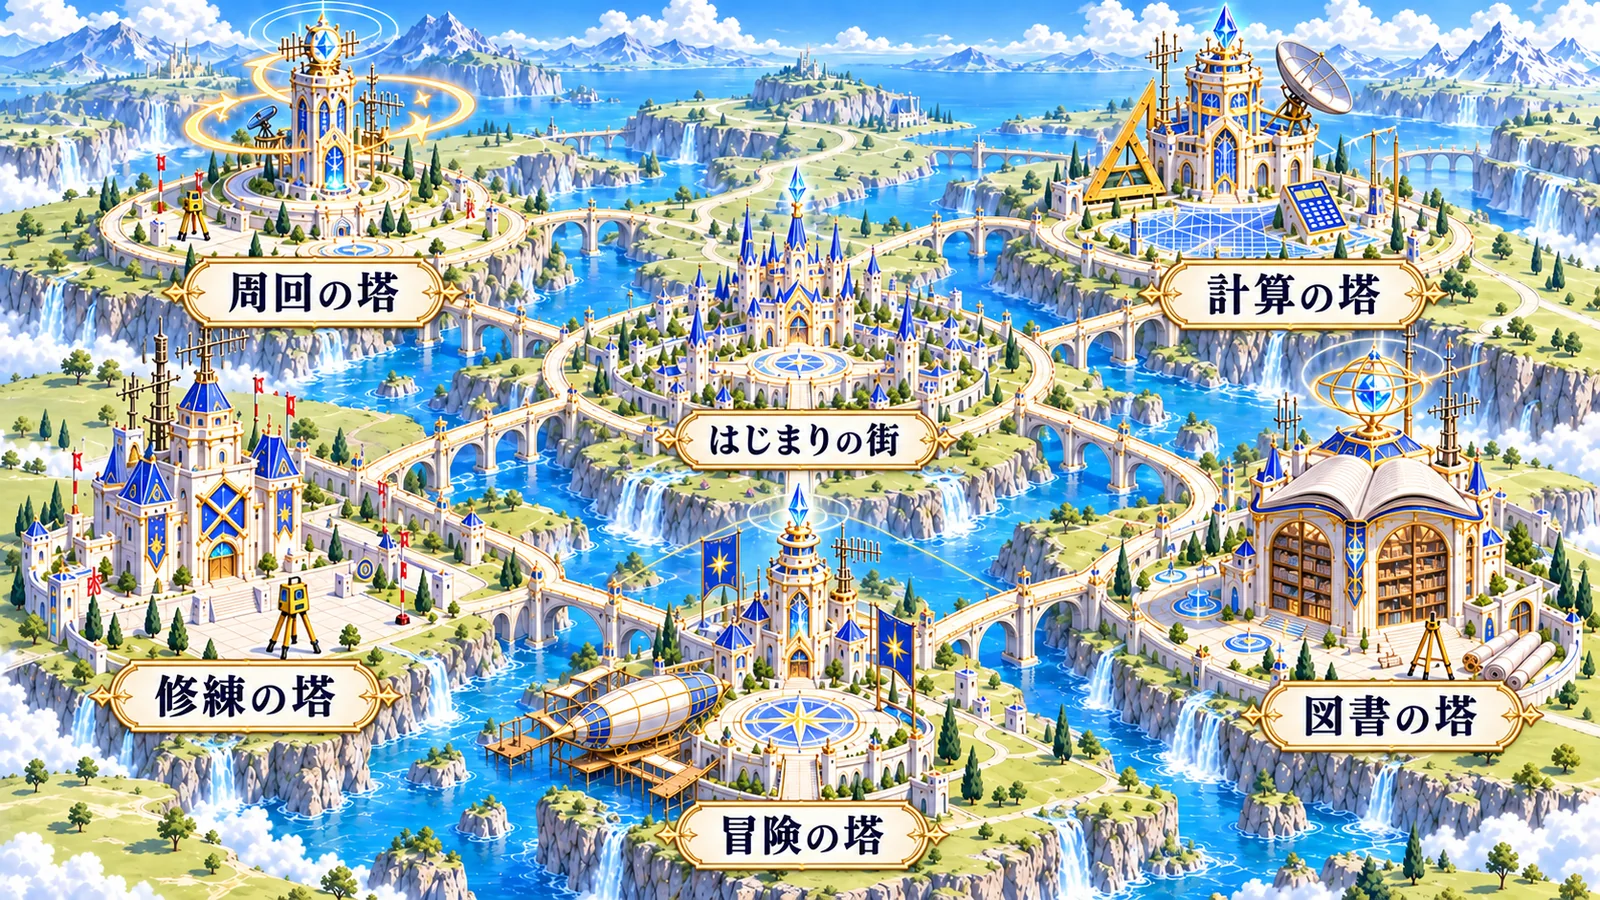
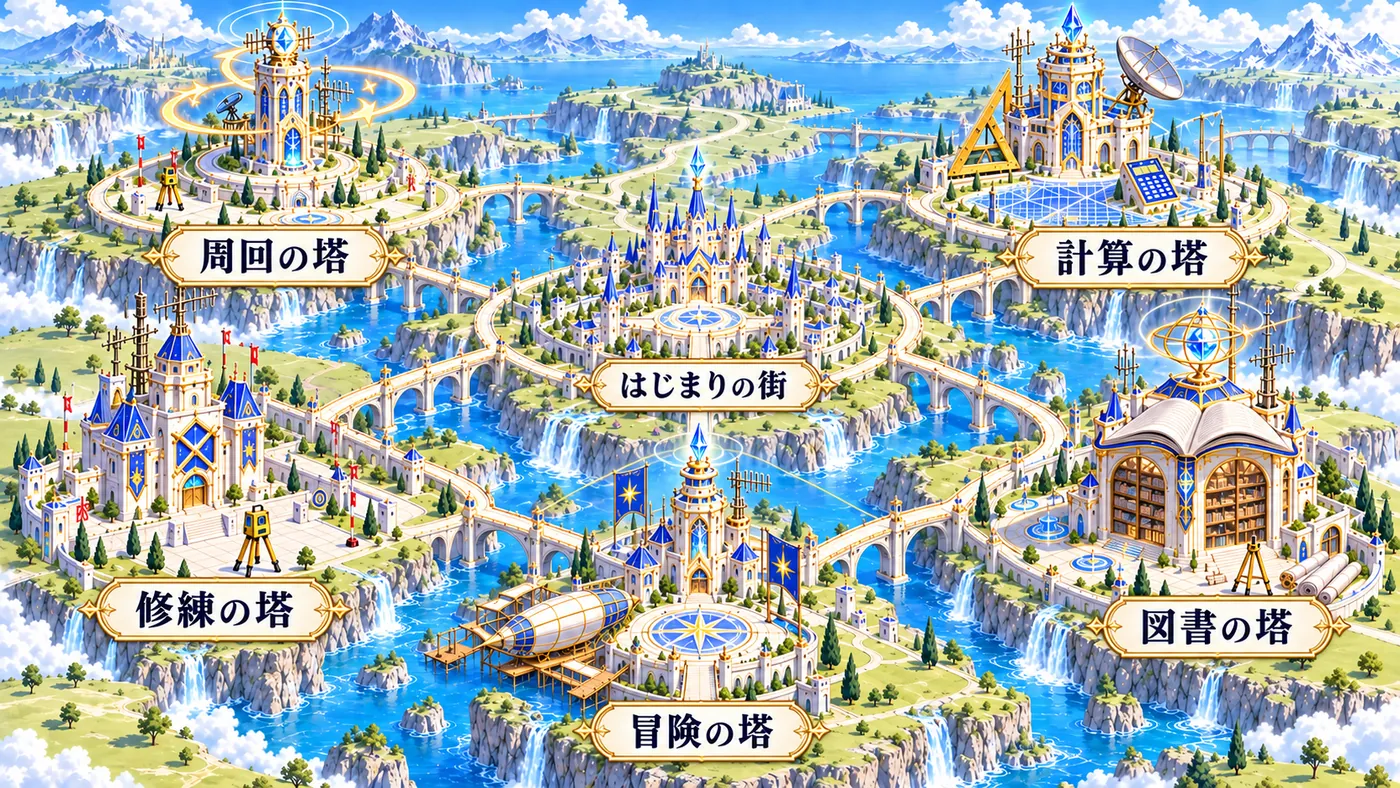
周回の塔・計算の塔の見出しの絵を新しいイラストに（題字入り）、地図の絵を軽く

diff --git a/src/App.jsx b/src/App.jsx
@@ -15502,7 +15502,7 @@ function LapRoom({ view = "plan", state, actions, rpgActions, recordAnswer, past
     <div className="space-y-4">
       {show && (
         <div className="relative overflow-hidden" style={{ borderRadius: 12, border: "1px solid #b08a3e", boxShadow: "inset 0 0 0 3px #fdfbf5, inset 0 0 0 4px rgba(176,138,62,.45)", width: "100%", aspectRatio: "16 / 9" }}>
-          <img src={`${ART_URL}${radio ? "laproom-radio.webp" : "laproom.webp"}`} alt={radio ? "周回の部屋 ― 電波と回路を、学びの力に（特殊陸上無線技士 試験対策）" : "周回の部屋 ― 測って、解いて、力にする（土地家屋調査士 試験対策）"} className="w-full h-full" style={{ objectFit: "cover", objectPosition: "center 40%" }} />
+          <img src={`${ART_URL}${radio ? "laproom-radio.webp" : "laptower.webp"}`} alt={radio ? "周回の部屋 ― 電波と回路を、学びの力に（特殊陸上無線技士 試験対策）" : "周回の塔 ― 測って、解いて、力にする（土地家屋調査士 試験対策）"} className="w-full h-full" style={{ objectFit: "cover", objectPosition: "center 40%" }} />
         </div>
       )}
       {show && (
@@ -17830,7 +17830,7 @@ function CalcTab({ state, actions, startTimer, stopTimer, pastReq, onPastOpened 
   const head = (
     <div className="mb-3 jp">
       <div className="relative overflow-hidden" style={{ borderRadius: 12, border: "1px solid #b08a3e", boxShadow: "inset 0 0 0 3px #fdfbf5, inset 0 0 0 4px rgba(176,138,62,.45)", width: "100%", maxWidth: 680, margin: "0 auto", aspectRatio: "1672 / 941", background: "#34508c" }}>
-        <img src={`${ART_URL}calcroom.webp`} alt="計算の部屋（土地家屋調査士 試験対策）" className="w-full h-full" style={{ objectFit: "cover", objectPosition: "center 35%" }} />
+        <img src={`${ART_URL}calctower.webp`} alt="計算の塔（土地家屋調査士 試験対策）" className="w-full h-full" style={{ objectFit: "cover", objectPosition: "center 35%" }} />
       </div>
       <div className="text-[11px] mt-1 text-center" style={{ color: "var(--ink-soft)" }}>関数電卓（カシオ fx-JP500）のキー操作つき。記述式の流れ・座標・交点・面積・三角形・端数処理を周回。</div>
     </div>
